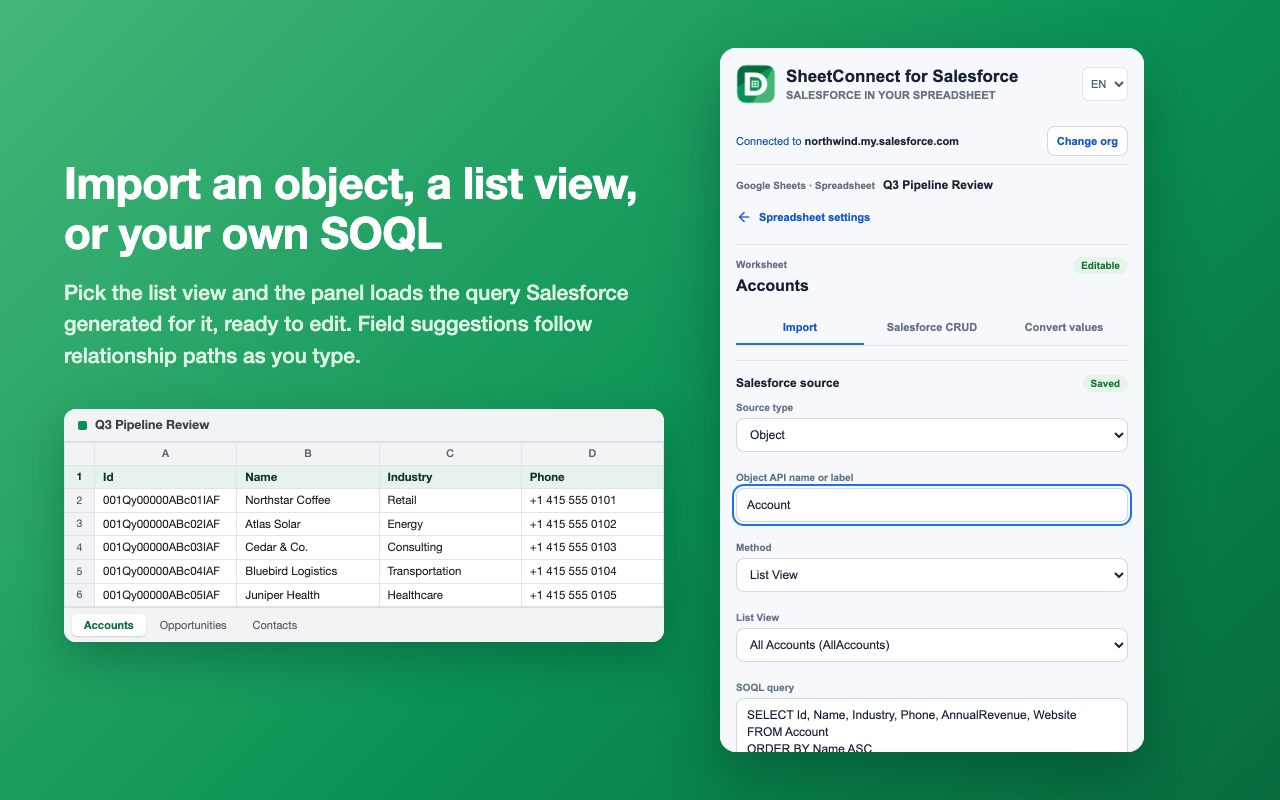
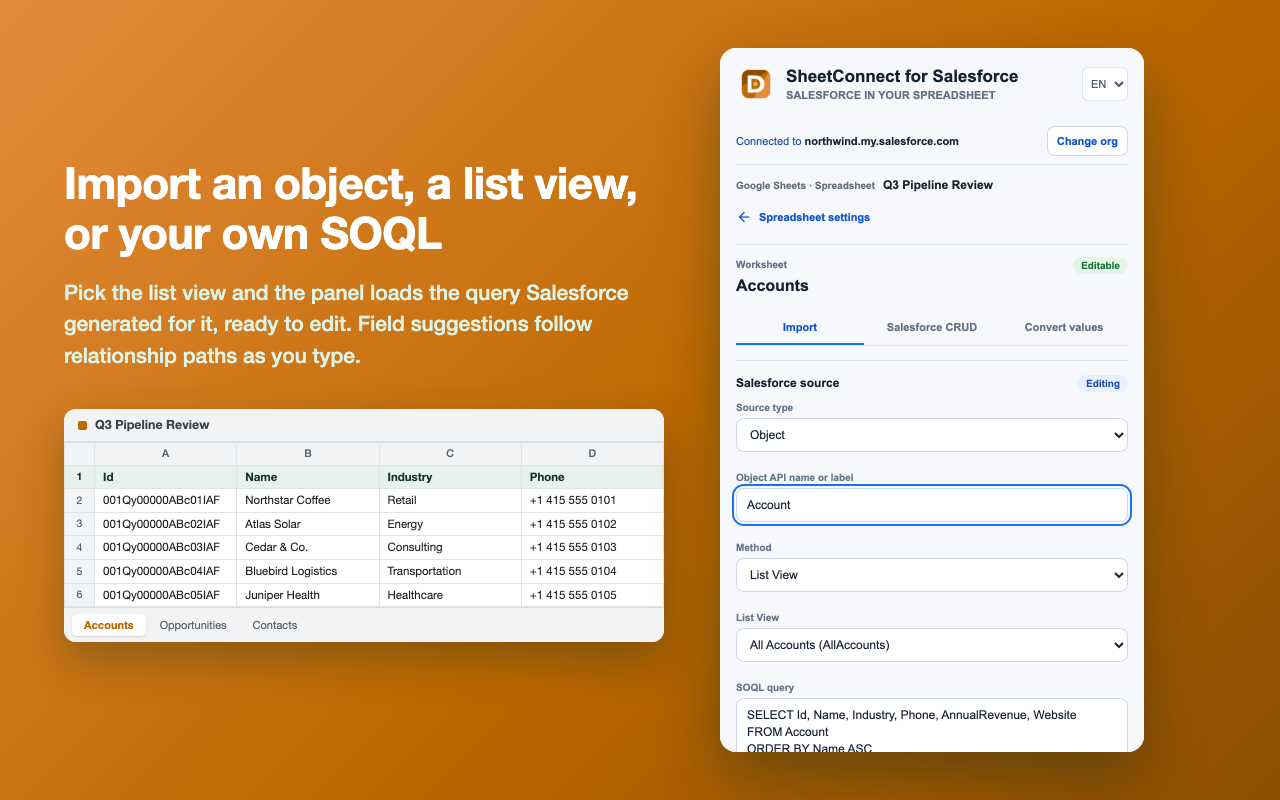
Take SheetConnect off the refused green mark, and publish its Picker page
Google refused the green-and-grid mark in OAuth verification for reading as
Google Sheets. This site's SheetConnect page is the application home page named
in that verification, so it was serving the refused artwork at the URL the
reviewer opens. Resynced to the gold fan with the exchange glyph, moved the
product card accent off the green, and re-copied all five screenshots.

picker.html is new. Under the drive.file scope the extension can only reach
spreadsheets the user hands it through the Google Picker, and Manifest V3 forbids
loading the Picker's remote code inside an extension, so it runs here instead.

diff --git a/apps/sheetconnect-for-salesforce/picker.html b/apps/sheetconnect-for-salesforce/picker.html
@@ -1,0 +1,168 @@
+<!doctype html>
+<meta charset="utf-8">
+<title>Grant access — SheetConnect for Salesforce</title>
+<meta name="viewport" content="width=device-width, initial-scale=1">
+<meta name="robots" content="noindex">
+<!--
+  Published to https://dina.jp/apps/sheetconnect-for-salesforce/picker.html from the
+  dina-app/dina-app.github.io repository. It is not part of the extension archive.
+
+  Why a hosted page exists at all: under the drive.file scope the extension can only
+  touch files the user has handed it through the Google Picker, and the Picker ships
+  as remote code from apis.google.com. Manifest V3 forbids an extension from loading
+  remote code, so the Picker cannot run inside the side panel. It runs here instead,
+  and talks to the extension over externally_connectable.
+
+  The access token is never put in the URL. This page asks the extension for one
+  after it loads, so the token stays out of the address bar, out of history and out
+  of any referrer. The only thing the fragment carries is a spreadsheet id, which is
+  already visible in the user's own tab.
+-->
+<style>
+  :root { color-scheme: light; }
+  body {
+    margin: 0; min-height: 100vh; display: grid; place-items: center;
+    background: #f5f7fa; color: #1b1b1f;
+    font: 15px/1.5 -apple-system, BlinkMacSystemFont, "Segoe UI", Roboto, Helvetica, Arial, sans-serif;
+  }
+  main { max-width: 34rem; padding: 2rem 1.5rem; text-align: center; }
+  h1 { margin: 0 0 .5rem; font-size: 1.25rem; }
+  p { margin: 0 0 1rem; color: #5a5f6a; }
+  .error { color: #8a3410; font-weight: 600; }
+  code { background: #eef1f5; padding: .1em .35em; border-radius: 4px; font-size: .9em; }
+</style>
+<main>
+  <h1 id="heading">Opening the Google Picker…</h1>
+  <p id="detail">Choose the spreadsheet you want SheetConnect to work with. It is granted one file at a time, and only the files you pick here.</p>
+</main>
+<script src="https://apis.google.com/js/api.js" async defer onload="onApiLoad()" onerror="fail('Google’s Picker library could not be loaded. Check the network connection and reload.')"></script>
+<script>
+  // The published extension. A build loaded unpacked has a different id and will not
+  // be able to talk to this page — that is deliberate, not a bug to work around.
+  const EXTENSION_ID = "ndlelhglddfgjelpgfhledjnhppflibc";
+
+  // Picker API key (a developer key, not an OAuth client), created 2026-09-15 in
+  // sheetconnect-salesforce and restricted there to the Google Picker API and an
+  // HTTP referrer of https://dina.jp/*.
+  //
+  // It is public because it has to be: the Picker reads it from the page. Treat the
+  // restrictions as hygiene rather than as the security boundary — a Referer header
+  // can be forged. What actually protects the user is that this key on its own does
+  // nothing: every file the Picker returns was chosen by a signed-in person, against
+  // their own OAuth token, and drive.file grants only what they picked.
+  const PICKER_API_KEY = "AIzaSyC4W2PP7aRnJF_pFmd8Gg-UCQ5nirijRSQ";
+
+  // The Cloud project number — "the Id of the application needing to access the
+  // user's files via the Drive API", in the Picker's own words. This is what a
+  // drive.file grant attaches to, so it has to be the project that issued the
+  // access token: the same project as the extension's oauth2.client_id, whose
+  // leading digits are this number. Get it wrong and the user picks a file, the
+  // picker reports success, and every later read still returns 404.
+  const CLOUD_PROJECT_NUMBER = "472463652740";
+
+  const heading = document.getElementById("heading");
+  const detail = document.getElementById("detail");
+
+  function fail(message) {
+    heading.textContent = "Could not open the picker";
+    heading.classList.add("error");
+    detail.textContent = message;
+  }
+
+  function done(message) {
+    heading.textContent = "Access granted";
+    heading.classList.remove("error");
+    detail.textContent = message;
+  }
+
+  // The spreadsheet the user already had open, so the picker can start on it rather
+  // than making them hunt through Drive. Anything else in the fragment is ignored.
+  function targetFileId() {
+    const id = decodeURIComponent(location.hash.replace(/^#/, "")).trim();
+    return /^[A-Za-z0-9_-]{10,}$/.test(id) ? id : "";
+  }
+
+  function askExtension(message) {
+    return new Promise((resolve, reject) => {
+      if (!window.chrome?.runtime?.sendMessage) {
+        reject(new Error("Open this page from the SheetConnect side panel — it cannot grant access on its own."));
+        return;
+      }
+      chrome.runtime.sendMessage(EXTENSION_ID, message, (response) => {
+        const failure = chrome.runtime.lastError;
+        if (failure) {
+          reject(new Error("SheetConnect did not answer. Make sure the extension is installed and enabled, then try again."));
+          return;
+        }
+        if (!response?.ok) {
+          reject(new Error(response?.error || "SheetConnect could not start the picker."));
+          return;
+        }
+        resolve(response);
+      });
+    });
+  }
+
+  async function onApiLoad() {
+    // Catches a key that was cleared, half-pasted or replaced with a placeholder.
+    // Without it the Picker fails with a blank window and no explanation.
+    if (!/^AIza[\w-]{30,}$/.test(PICKER_API_KEY)) {
+      fail("This page has no usable Picker API key. Create one in Google Cloud Console under the same project as the OAuth client, restrict it to the Picker API and the dina.jp referrer, and publish it here.");
+      return;
+    }
+    let token;
+    try {
+      ({ token } = await askExtension({ type: "picker-token" }));
+    } catch (error) {
+      fail(error.message);
+      return;
+    }
+    gapi.load("picker", () => {
+      try {
+        showPicker(token);
+      } catch (error) {
+        fail(`The picker failed to open: ${error.message}`);
+      }
+    });
+  }
+
+  function showPicker(token) {
+    const view = new google.picker.DocsView(google.picker.ViewId.SPREADSHEETS).setMode(google.picker.DocsViewMode.LIST);
+    const fileId = targetFileId();
+    // setFileIds pre-navigates the picker to the spreadsheet already open in the
+    // user's tab, so granting it is one click instead of a search.
+    if (fileId) view.setFileIds(fileId);
+
+    new google.picker.PickerBuilder()
+      .setOAuthToken(token)
+      .setDeveloperKey(PICKER_API_KEY)
+      .setAppId(CLOUD_PROJECT_NUMBER)
+      .addView(view)
+      .setCallback(onPicked)
+      .setTitle("Grant SheetConnect access to this spreadsheet")
+      .build()
+      .setVisible(true);
+  }
+
+  async function onPicked(data) {
+    if (data.action === google.picker.Action.CANCEL) {
+      fail("No spreadsheet was granted. SheetConnect cannot read this file until you pick it here.");
+      return;
+    }
+    if (data.action !== google.picker.Action.PICKED) return;
+    const picked = (data.docs || []).map((doc) => ({ id: doc.id, name: doc.name })).filter((doc) => doc.id);
+    if (!picked.length) {
+      fail("The picker returned no file.");
+      return;
+    }
+    try {
+      await askExtension({ type: "picker-granted", files: picked });
+      done(`SheetConnect can now use ${picked.map((doc) => doc.name || doc.id).join(", ")}. You can close this tab.`);
+      // The panel reopens on its own; closing is a convenience, and is silently
+      // refused when the tab was not opened by script.
+      setTimeout(() => window.close(), 1200);
+    } catch (error) {
+      fail(error.message);
+    }
+  }
+</script>

diff --git a/assets/dinalab.css b/assets/dinalab.css
@@ -812,8 +812,11 @@ figcaption {
   --app-accent: #12c974;
 }
 
+/* SheetConnect. Gold since 2026-09-15, when Google refused the green mark in OAuth
+   verification for reading as Google Sheets. The card accent has to move with it —
+   the logo beside it is the same file the reviewer sees. */
 .app-card:nth-child(3) {
-  --app-accent: #0a9256;
+  --app-accent: #bd6800;
 }
 
 .app-card:nth-child(4) {

diff --git a/RELEASE_CHECKLIST.md b/RELEASE_CHECKLIST.md
@@ -35,6 +35,9 @@ Prepared: July 31, 2026. Last synced with `dina-app`: September 15, 2026.
 
 - [x] Publish the SheetConnect for Salesforce release-candidate page and privacy policy, add the product to the homepage products grid and current-focus board, and register both pages in the sitemap, 404 navigation, and site validation.
 - [x] Use the shipping SheetConnect mark on the site: `apps/sheetconnect-for-salesforce/logo.svg` is copied from `SheetConnect for Salesforce Store Assets/source/brand-mark-master.svg` in `dina-app`, so the homepage card, the packaged extension icon and the Chrome Web Store icon are the same artwork. It is outside `scripts/build-logos.mjs`, so regenerating the neon-D marks leaves it alone.
+- [x] **Took SheetConnect off the green mark on September 15, 2026.** Google refused it in OAuth verification — "your logo does not uniquely identify your brand and identity ... does not impersonate any other brand" — because a green rounded square carrying a spreadsheet grid reads as Google Sheets. This page is the application home page named in that verification, so it was showing the refused mark at the exact URL the reviewer opens. `logo.svg` resynced to the gold fan with the exchange glyph, `--app-accent` for the third product card moved off `#0a9256`, the `sync-brand-marks.mjs` entry corrected from emerald/spreadsheet-grid to gold/exchange-arrow, and all five product screenshots re-copied now that the panel's accents changed with it.
+- [x] **Published `apps/sheetconnect-for-salesforce/picker.html`.** Google declined the `spreadsheets` scope and asked for `drive.file`, which only grants files the user hands over through the Google Picker. The Picker is remote code from `apis.google.com` and Manifest V3 forbids an extension loading remote code, so it cannot run in the side panel — it runs on this page and reports the granted file back over `externally_connectable`. The page is inert until the extension opens it: it carries no content of its own and is `noindex`. Its API key is restricted to the Google Picker API and an `https://dina.jp/*` referrer.
+- [ ] The homepage card still says **Release candidate · 0.1.0** while the Store item is published at 0.4.3. Decide what it should read before the next deploy — this is the page Google's reviewer lands on.
 - [ ] Enter `https://dina.jp/apps/sheetconnect-for-salesforce/PRIVACY_POLICY.html` in the Chrome Web Store listing once this deploy is live. This URL is SheetConnect submission blocker 2; the page must resolve publicly before the listing is saved.
 - [x] Resync the site with the DinaConnect to SheetConnect rename on September 12, 2026: page and folder renamed, screenshots re-copied from the regenerated store assets, the panel's optional Google host permissions and its new English/Japanese selector added, and the release status updated now that the OAuth client is bound.
 - [x] Re-copy `03-search-and-import-reports.png` and `04-validate-before-writing-back.png` after `dina-app` commit `cb186410` dropped the panel's Save button and re-captured the store screenshots. All five frames on the product page now hash-match `SheetConnect for Salesforce Store Assets/screenshots`.
